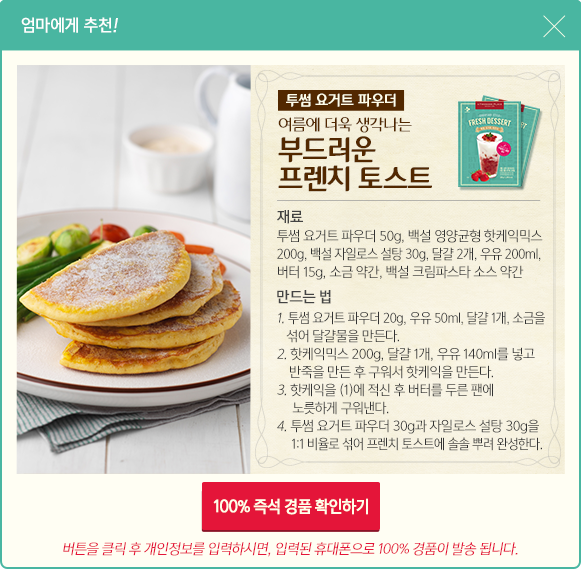
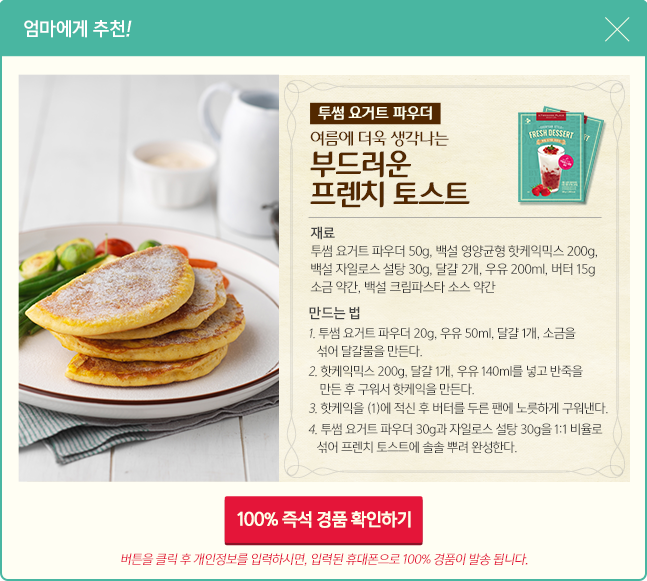
in order to publish to mobile environment

Changed region(s): [[0.0, 0.0299, 1.0, 0.9859]]

diff --git a/cjevent05/src/main/webapp/resources/js/event.js b/cjevent05/src/main/webapp/resources/js/event.js
@@ -5,7 +5,8 @@ $(function () {
 	var step1Idx = 0; var step2Idx = 0; var step3Idx = 0;
 	var collectAgreeFlag = 0; var bridgeAgreeFlag = 0;
  	$('#btn-step1-left').click(function (event) {
-		if(step1Idx == 0) return false;
+ 		$('#btn-step1-right').css('display', 'block');
+ 		if(step1Idx == 0) return false;
 		else {
 			/* step3 는 무조건 닫아야 함 */
 			step3Idx = 0; step2Idx = 0;
@@ -15,11 +16,17 @@ $(function () {
 			$("#sunsoo-step1-li-" + step1Idx).css('display', 'none'); step1Idx--;
 			$("#sunsoo-step1-li-" + step1Idx).css('display', 'block');
 			/* step2 는 맨 처음 재료 고르는 창만 열어둔다 */
+			$('#btn-step2-left').css('display', 'none');
+			$('#btn-step2-right').css('display', 'block');
+			$('#btn-step3-left').css('display', 'none');
+			$('#btn-step3-right').css('display', 'block');
 			if(step1Idx == 0) {
+				$('#btn-step1-left').css('display', 'none');
 				$('#sunsoo-step2-div').css('display', 'none');
 				$('.sunsoo-step2-li').css('display', 'none');			
 			}
 			else {
+				$('#btn-step2-left').css('display', 'none');
 				$('.sunsoo-step2-li').css('display', 'none');
 				$('#sunsoo-step2-li-0').css('display', 'block');			
 			}
@@ -29,6 +36,10 @@ $(function () {
 	$('#btn-step1-right').click(function (event) {
 		if(step1Idx == 3) return false;
 		else {
+			$('#btn-step2-right').css('display', 'block');
+			$('#btn-step2-left').css('display', 'none');
+			$('#btn-step3-left').css('display', 'none');
+			if(step1Idx == 0) $('#btn-step1-left').css('display', 'block');
 			/* step2는 step3와 관계 없이 맨 처음으로 활성화. step3는 무조건 닫아버린다 */
 			step2Idx = 0; step3Idx = 0;
 			$('#sunsoo-step3-div').css('display', 'none');
@@ -39,6 +50,7 @@ $(function () {
 			$('#sunsoo-step2-div').css('display', 'block');
 			$("#sunsoo-step1-li-" + step1Idx).css('display', 'none'); step1Idx++;
 			$("#sunsoo-step1-li-" + step1Idx).css('display', 'block');
+			if(step1Idx == 3) $('#btn-step1-right').css('display', 'none');
 			return true;
 		}
 	});
@@ -50,12 +62,19 @@ $(function () {
 			$('.sunsoo-step3-li').css('display', 'none');
 			$("#sunsoo-step2-li-" + step2Idx).css('display', 'none'); step2Idx--;
 			$("#sunsoo-step2-li-" + step2Idx).css('display', 'block');
+			$('#btn-step2-left').css('display', 'none');
+			$('#btn-step2-right').css('display', 'block');
+			$('#btn-step3-left').css('display', 'none');
 			return true;
 		}
 	});
 	$('#btn-step2-right').click(function (event) {
+		$('#btn-step3-right').css('display', 'block');
 		if(step2Idx == 1) return false;
 		else {
+			$('#btn-step2-left').css('display', 'block');
+			$('#btn-step2-right').css('display', 'none');
+			$('#btn-step3-left').css('display', 'none');
 			$("#sunsoo-step2-li-" + step2Idx).css('display', 'none'); step2Idx++;
 			$("#sunsoo-step2-li-" + step2Idx).css('display', 'block');
 			$('.sunsoo-step3-li').css('display', 'none');
@@ -65,6 +84,7 @@ $(function () {
 		}
 	});	
 	$('#btn-step3-left').click(function (event) {
+		$('#btn-step3-right').css('display', 'block');
 		if(step3Idx <= 0) {
 			step3Idx = 0;
 			return false;
@@ -72,6 +92,9 @@ $(function () {
 		else {
 			$("#sunsoo-step3-li-" + step1Idx + "-" + step3Idx).css('display', 'none'); step3Idx--;
 			$("#sunsoo-step3-li-" + step1Idx + "-" + step3Idx).css('display', 'block');
+			if(step3Idx == 0) {
+				$('#btn-step3-left').css('display', 'none');
+			}
 			return true;
 		}
 	});
@@ -92,8 +115,20 @@ $(function () {
 			if(step1Idx == 0) {
 				$('#sunsoo-step2-div').css('display', 'block');
 			}
+			if(step3Idx == 0) {
+				$('#btn-step3-left').css('display', 'block');
+			}
 			$("#sunsoo-step3-li-" + step1Idx + "-" + step3Idx).css('display', 'none'); step3Idx++;
 			$("#sunsoo-step3-li-" + step1Idx + "-" + step3Idx).css('display', 'block');
+			if(step3Idx == 7 && step1Idx == 1) {
+				$('#btn-step3-right').css('display', 'none');
+			}
+			else if(step3Idx == 3 && step1Idx == 2) {
+				$('#btn-step3-right').css('display', 'none');
+			}
+			else if(step3Idx == 6 && step1Idx == 3) {
+				$('#btn-step3-right').css('display', 'none');
+			}
 			return true;
 		}
 	});
@@ -164,8 +199,15 @@ $(function () {
 	$('#ss-layer-popup-info-alert4').click(function (event) {
 		$('#ss-layer-popup-info-alert4').css('display', 'none');
 	});	
+	$('#ss-layer-popup-info-alert5').click(function (event) {
+		$('#ss-layer-popup-info-alert5').css('display', 'none');
+	});	
 	$('.ss-recipe-close').click(function (event) {
 		$('#ss-layer-popup-recipe').css('display', 'none');
+		$('.ss-layer-popup').css('display', 'none');
+	});
+	$('.ss-info-close').click(function (event) {
+		$('#ss-layer-popup-info').css('display', 'none');
 		$('.ss-layer-popup').css('display', 'none');
 	});
 	$('.ss-recipe-close2').click(function (event) {
@@ -192,7 +234,41 @@ $(function () {
 		$('.bridge-agree-img').css('display', 'none');
 		$('.bridge-disagree-img').css('display', 'block');
 	});
+	$('.collect2-agree').click(function (event) {
+		collectAgreeFlag = 1;
+		$('.collect-disagree-img').css('display', 'none');
+		$('.collect-agree-img').css('display', 'block');
+	});
+	$('.collect2-disagree').click(function (event) {
+		collectAgreeFlag = 0;
+		$('.collect-agree-img').css('display', 'none');
+		$('.collect-disagree-img').css('display', 'block');
+	});
+	$('.bridge2-agree').click(function (event) {
+		bridgeAgreeFlag = 1;
+		$('.bridge-disagree-img').css('display', 'none');
+		$('.bridge-agree-img').css('display', 'block');
+	});
+	$('.bridge2-disagree').click(function (event) {
+		bridgeAgreeFlag = 0;
+		$('.bridge-agree-img').css('display', 'none');
+		$('.bridge-disagree-img').css('display', 'block');
+	});
 	$('.ss-info-confirm').click(function (event) {
+		var p = $('.ss-layer-popup-info #remote_phone').val();
+		var regExpCheck =/^01([0|1|6|7|8|9]?)-?([0-9]{3,4})-?([0-9]{4})|(010-?[1-9]-?[0-9]{7})$/;
+		if($("#remote_name").val() == "") {
+			$("#ss-layer-popup-info-alert5").css('display', 'block');
+			return false;
+		}
+		if($(".ss-layer-popup-info #remote_phone").val() == "") {
+			$("#ss-layer-popup-info-alert3").css('display', 'block');
+			return false;
+		}
+		if(!regExpCheck.test(p)) {
+			$("#ss-layer-popup-info-alert4").css('display', 'block');
+			return false;
+		}		
 		if(collectAgreeFlag == 0) {
 			$("#ss-layer-popup-info-alert1").css('display', 'block');
 			return false;
@@ -201,10 +277,12 @@ $(function () {
 			$("#ss-layer-popup-info-alert2").css('display', 'block');
 			return false;
 		}
-		if($("#remote_phone").val() == "") {
-			$("#ss-layer-popup-info-alert3").css('display', 'block');
-			return false;
-		}
+	});
+	$('#ss-checkCode').click(function (event) {
+		// ajax 체크 코드
+		//
+		$('.ss-layer-popup').css('display', 'block');
+		$('#ss-layer-popup-info2').css('display', 'block');
 	});
 });
 

diff --git a/cjevent05/src/main/webapp/resources/css/style.css b/cjevent05/src/main/webapp/resources/css/style.css
@@ -204,6 +204,7 @@ body {
 	top: 330px;
 	left: 70px;
 	cursor: pointer;
+	display: none;
 }
 #btn-step1-right {
 	position: absolute;
@@ -231,6 +232,7 @@ body {
 	top: 330px;
 	left: 365px;
 	cursor: pointer;
+	display: none;
 }
 #btn-step2-right {
 	position: absolute;
@@ -258,6 +260,7 @@ body {
 	top: 330px;
 	left: 670px;
 	cursor: pointer;
+	display: none;
 }
 #btn-step3-right {
 	position: absolute;
@@ -267,6 +270,8 @@ body {
 }
 .ss-layer-popup {
 	position: fixed;
+	top: 0;
+	left: 0;
 	width: 100%;
 	height: 100%;
 	z-index: 1000;
@@ -317,6 +322,24 @@ body {
 	height: 25px;
 	top: 15px;
 	right: 15px;
+	cursor: pointer;
+}
+.ss-info-close {
+	background: url("../images/btnWebEvent1Close.png") no-repeat;
+	position: absolute;
+	width: 28px;
+	height: 28px;
+	top: 12px;
+	right: 12px;
+	cursor: pointer;
+}
+.ss-info2-close {
+	background: url("../images/btnWebEvent2Close.png") no-repeat;
+	position: absolute;
+	width: 28px;
+	height: 28px;
+	top: 12px;
+	right: 12px;
 	cursor: pointer;
 }
 .ss-recipe-close2 {
@@ -392,6 +415,18 @@ body {
 	right: 0;
 	display: none;
 }
+#ss-layer-popup-info2 {
+	background: url("../images/bgWebEvent2Popup.png") no-repeat;
+	position: absolute;
+	width: 607px;
+	height: 579px;
+	margin: auto;
+	top: 0;
+	left: 0;
+	bottom: 0;
+	right: 0;
+	display: none;
+}
 .collect-agree {
 	position: absolute;
 	width: 19px;
@@ -436,11 +471,63 @@ body {
 .bridge-disagree-img {
 	display: none;
 }
+.collect2-agree {
+	position: absolute;
+	width: 19px;
+	height: 19px;
+	left: 402px;
+	top: 247px;
+	cursor: pointer;
+}
+.collect2-disagree {
+	position: absolute;
+	width: 19px;
+	height: 19px;
+	left: 464px;
+	top: 247px;
+	cursor: pointer;
+}
+.bridge2-agree {
+	position: absolute;
+	width: 19px;
+	height: 19px;
+	left: 402px;
+	top: 378px;
+	cursor: pointer;
+}
+.bridge2-disagree {
+	position: absolute;
+	width: 19px;
+	height: 19px;
+	left: 464px;
+	top: 378px;
+	cursor: pointer;
+}
+.collect2-agree-img {
+	display: none;
+}
+.collect2-disagree-img {
+	display: none;
+}
+.bridge2-agree-img {
+	display: none;
+}
+.bridge2-disagree-img {
+	display: none;
+}
 .ss-info-confirm {
 	position: absolute;
 	width: 141px;
 	height: 47px;
 	left: 233px;
+	bottom: 22px;
+	cursor: pointer;
+}
+.ss-info2-confirm {
+	position: absolute;
+	width: 165px;
+	height: 47px;
+	left: 221px;
 	bottom: 22px;
 	cursor: pointer;
 }
